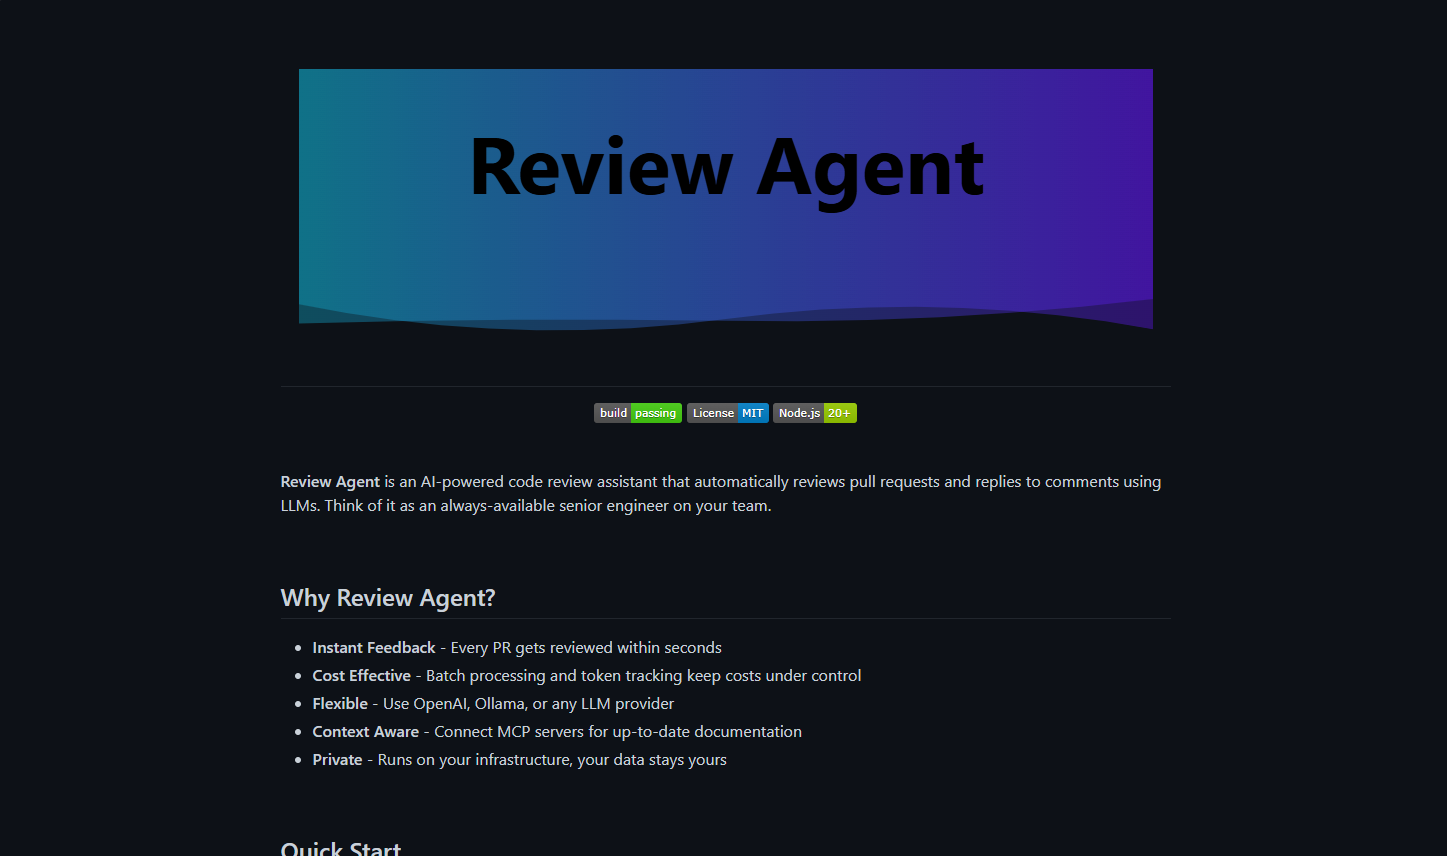
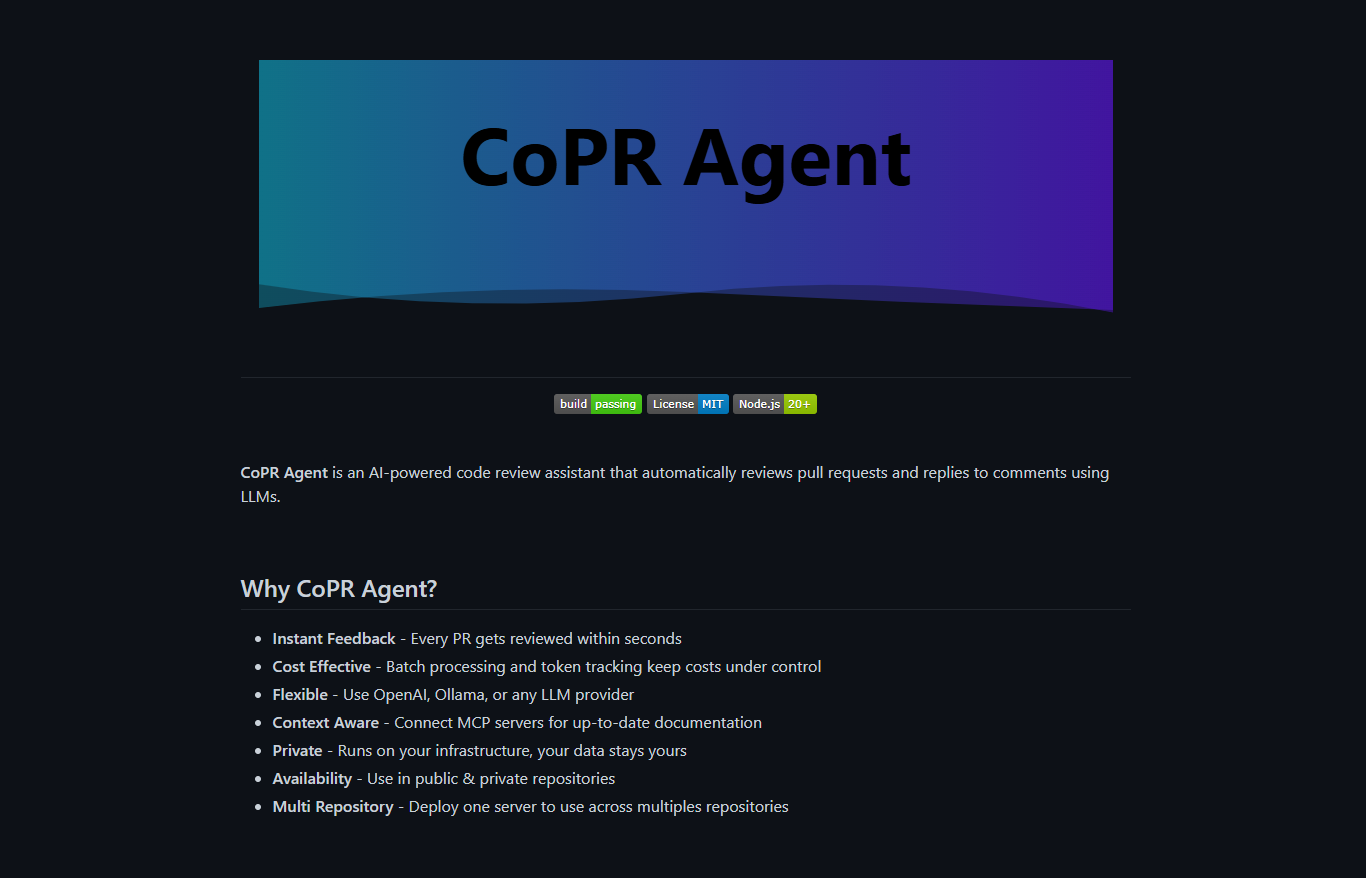
update review agent section

diff --git a/src/views/RootView.vue b/src/views/RootView.vue
@@ -437,16 +437,16 @@ onMounted(() => {
 
           <div class="p-3 flex flex-col justify-between gap-2">
             <div class="flex flex-col gap-1">
-              <a href="https://www.bergandersen.com/review-agent/" target="_blank"
+              <a href="https://www.bergandersen.com/copr-agent/" target="_blank"
                 class="text-xl block font-extrabold hover:underline">
-                GitHub Review Agent
+                CoPR Agent
               </a>
               <p class="text-sm">
-                Review Agent is an AI-powered code review assistant that automatically reviews pull requests and replies to comments using LLMs.
+                CoPR Agent is an AI-powered code review assistant for GitHub that automatically reviews pull requests and replies to comments using LLMs. The agent support local models, multiple repositories, short-term memory, MCP tools, and a RAG tool.
               </p>
             </div>
 
-            <a href="https://www.bergandersen.com/review-agent/" target="_blank"
+            <a href="https://www.bergandersen.com/copr-agent/" target="_blank"
               class="highlight-color highlight-color-hover hover:underline">
               Visit Website
             </a>
